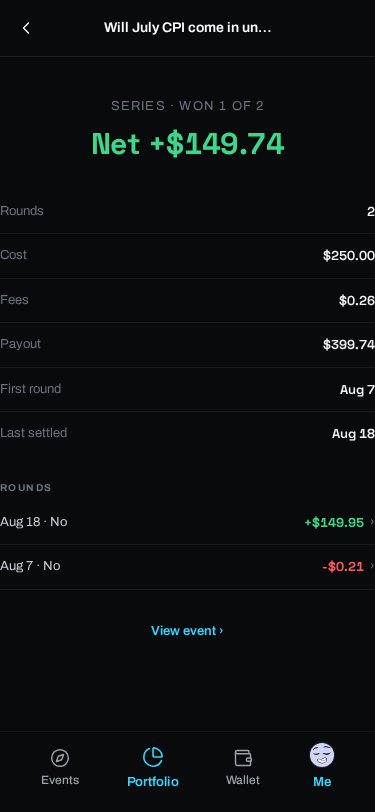
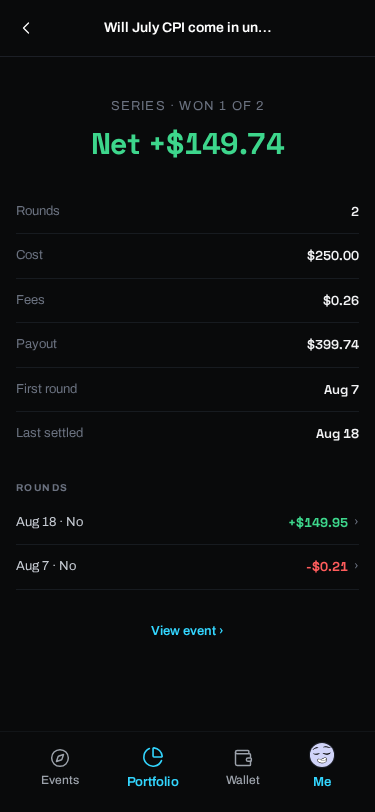
Changes

diff --git a/src/components/portfolio/lite/SeriesDetailView.tsx b/src/components/portfolio/lite/SeriesDetailView.tsx
@@ -93,7 +93,7 @@ export const SeriesDetailMobile = ({
   actions?: SeriesDetailActions;
 }) => (
   <div className="bg-background">
-    <div className="pb-6 pt-6 text-center">
+    <div className="px-4 pb-6 pt-6 text-center">
       <div className="text-[13px] text-[#6B7280]" style={{ letterSpacing: "1.2px" }}>
         SERIES · WON {vm.wins} OF {vm.rounds.length}
       </div>
@@ -105,7 +105,7 @@ export const SeriesDetailMobile = ({
       </div>
     </div>
 
-    <div>
+    <div className="px-4">
       <Row k="Rounds" v={roundsLabel(vm)} />
       <Row k="Cost" v={money(vm.cost)} />
       <Row k="Fees" v={money(vm.fees)} />
@@ -114,7 +114,7 @@ export const SeriesDetailMobile = ({
       <Row k="Last settled" v={lastSettled(vm)} />
     </div>
 
-    <div className="pt-6">
+    <div className="px-4 pt-6">
       <div className="pb-1.5 text-[10px] font-bold text-[#6B7280]" style={{ letterSpacing: "1.4px" }}>
         ROUNDS
       </div>
@@ -124,7 +124,7 @@ export const SeriesDetailMobile = ({
     </div>
 
     {actions?.onViewEvent && (
-      <div className="py-7 text-center">
+      <div className="px-4 py-7 text-center">
         <button
           type="button"
           onClick={actions.onViewEvent}
